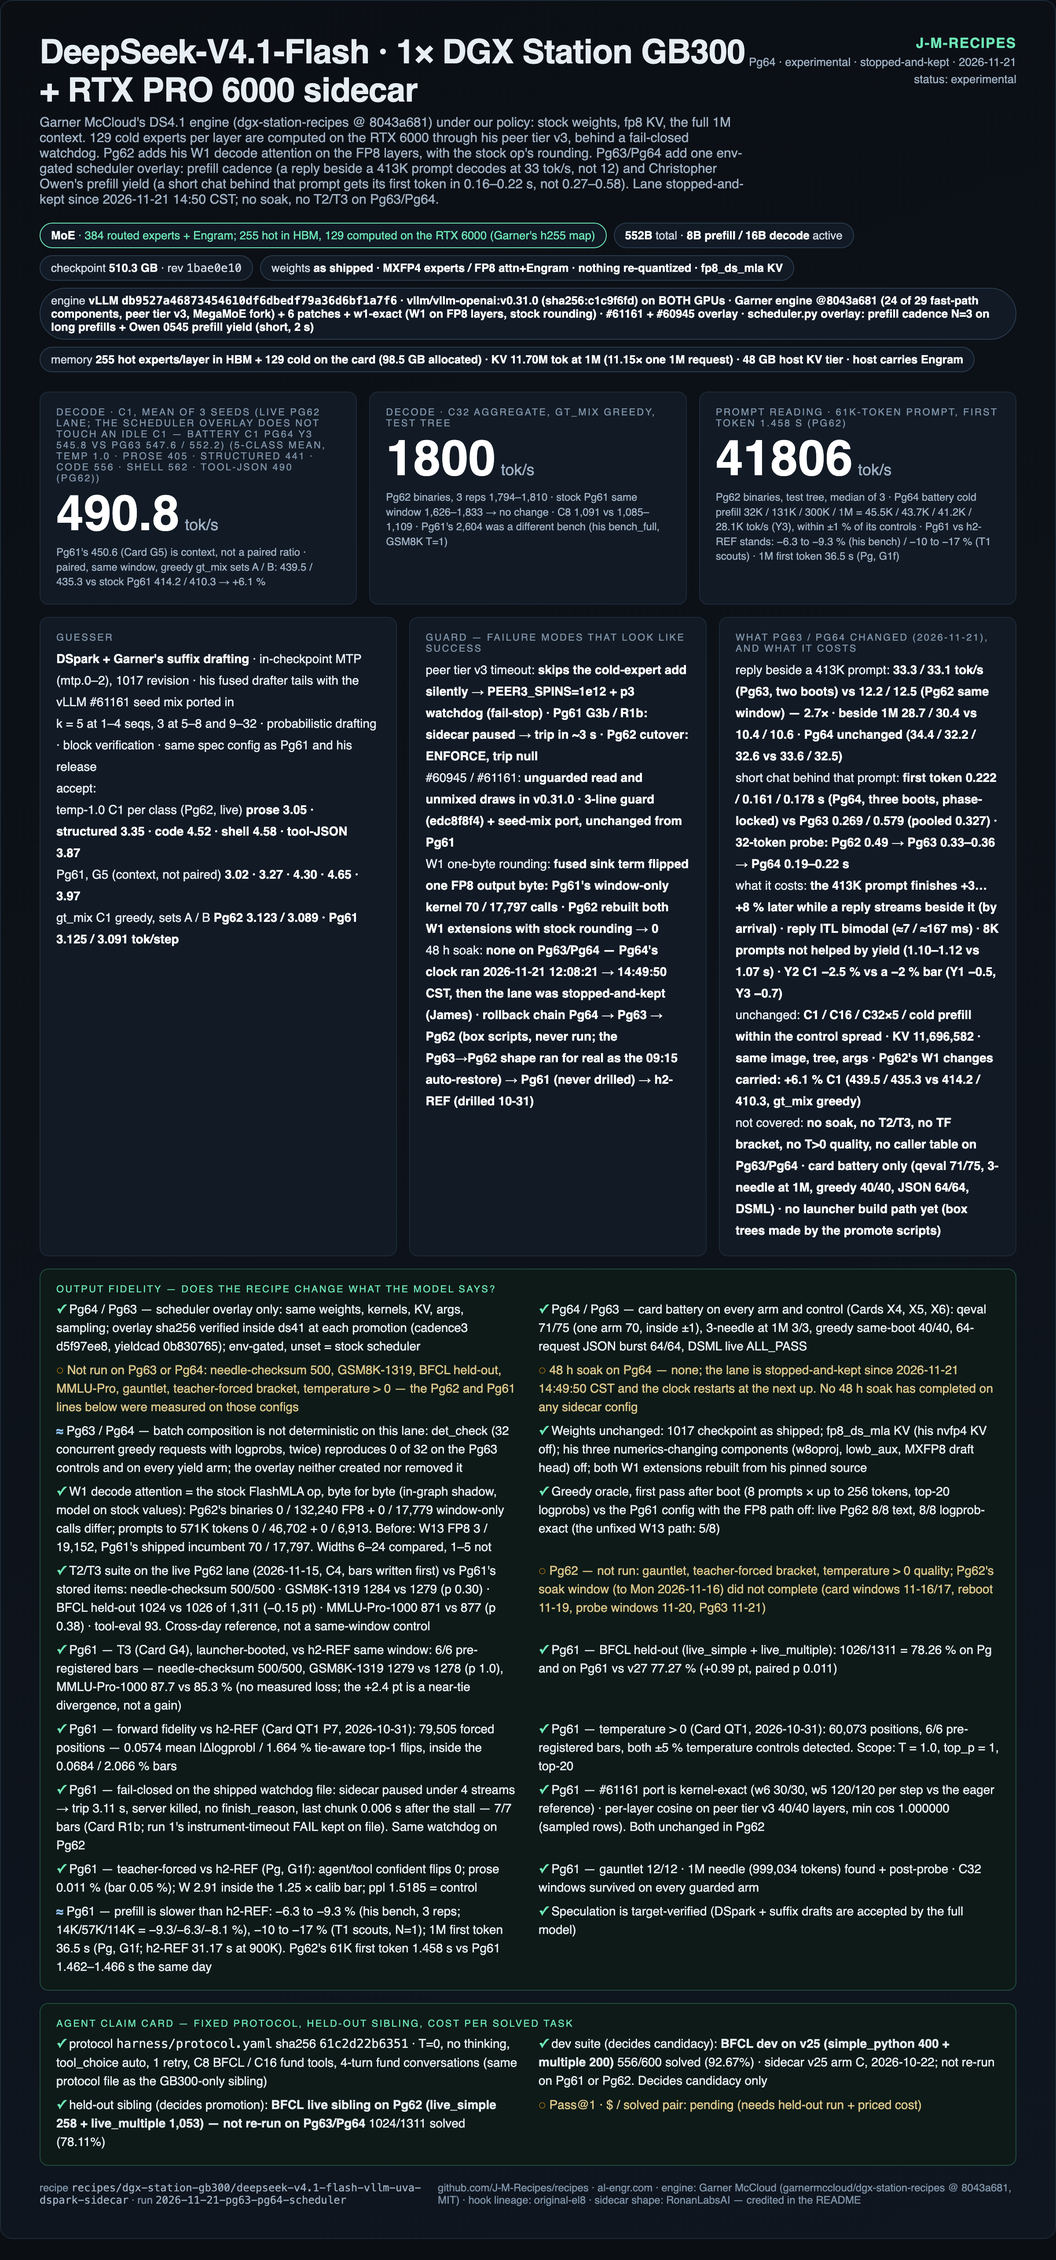
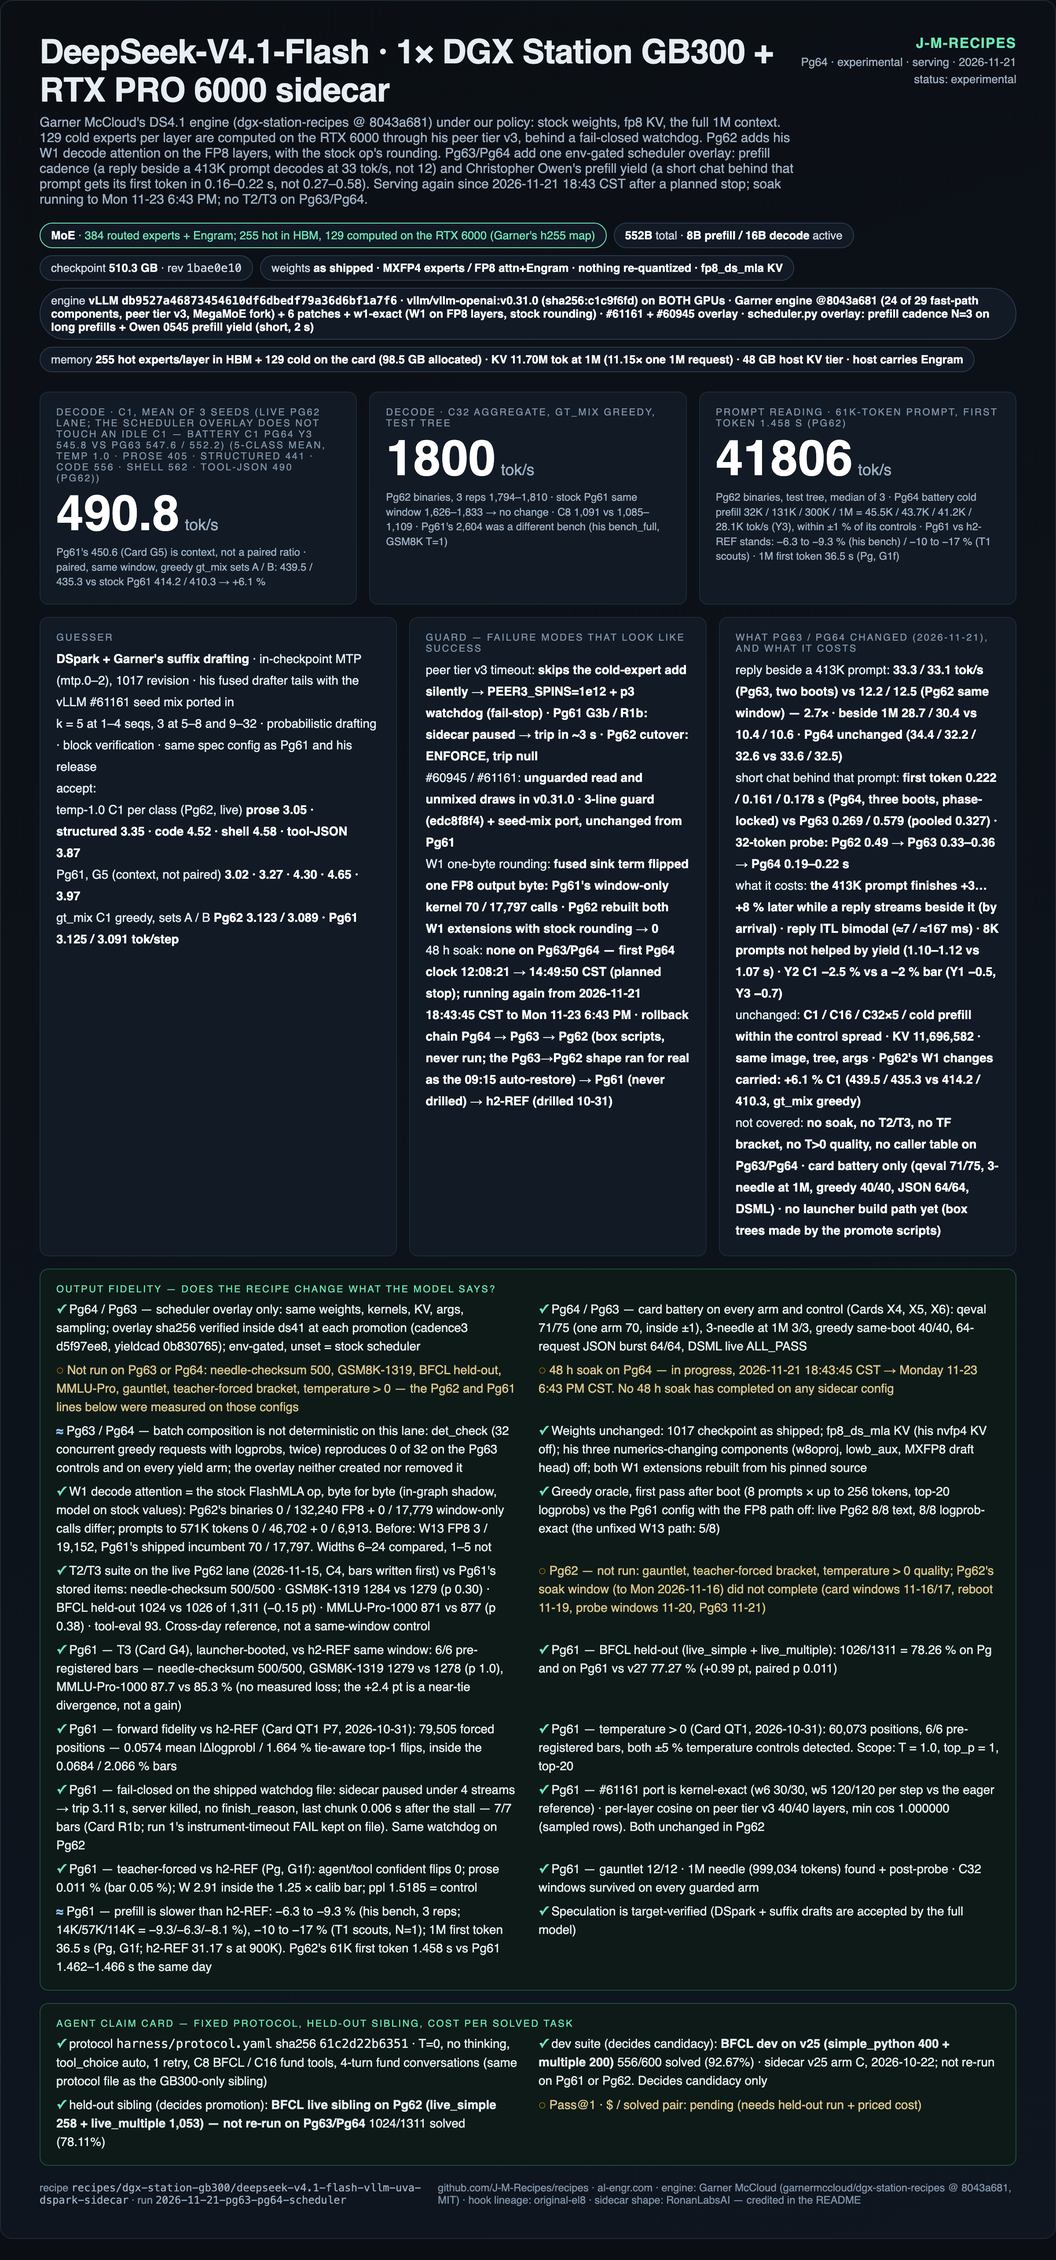
DSV4.1 sidecar Pg64: status refresh — serving again since 2026-11-21 18:43:45 CST after a planned stop, 48 h soak running to Mon 11-23 6:43 PM CST, back on the guest page; card re-rendered; link the Pg64 companion post (Milo, claude-opus-5.5) (#133)

diff --git a/recipes/dgx-station-gb300/deepseek-v4.1-flash-vllm-uva-dspark-sidecar/card.html b/recipes/dgx-station-gb300/deepseek-v4.1-flash-vllm-uva-dspark-sidecar/card.html
@@ -44,9 +44,9 @@
   <div class="top">
     <div>
       <h1>DeepSeek-V4.1-Flash · 1× DGX Station GB300 + RTX PRO 6000 sidecar</h1>
-      <div class="sub">Garner McCloud&#x27;s DS4.1 engine (dgx-station-recipes @ 8043a681) under our policy: stock weights, fp8 KV, the full 1M context. 129 cold experts per layer are computed on the RTX 6000 through his peer tier v3, behind a fail-closed watchdog. Pg62 adds his W1 decode attention on the FP8 layers, with the stock op&#x27;s rounding. Pg63/Pg64 add one env-gated scheduler overlay: prefill cadence (a reply beside a 413K prompt decodes at 33 tok/s, not 12) and Christopher Owen&#x27;s prefill yield (a short chat behind that prompt gets its first token in 0.16–0.22 s, not 0.27–0.58). Lane stopped-and-kept since 2026-11-21 14:50 CST; no soak, no T2/T3 on Pg63/Pg64.</div>
+      <div class="sub">Garner McCloud&#x27;s DS4.1 engine (dgx-station-recipes @ 8043a681) under our policy: stock weights, fp8 KV, the full 1M context. 129 cold experts per layer are computed on the RTX 6000 through his peer tier v3, behind a fail-closed watchdog. Pg62 adds his W1 decode attention on the FP8 layers, with the stock op&#x27;s rounding. Pg63/Pg64 add one env-gated scheduler overlay: prefill cadence (a reply beside a 413K prompt decodes at 33 tok/s, not 12) and Christopher Owen&#x27;s prefill yield (a short chat behind that prompt gets its first token in 0.16–0.22 s, not 0.27–0.58). Serving again since 2026-11-21 18:43 CST after a planned stop; soak running to Mon 11-23 6:43 PM; no T2/T3 on Pg63/Pg64.</div>
     </div>
-    <div class="brand"><b>J-M-RECIPES</b><br>Pg64 · experimental · stopped-and-kept · 2026-11-21<br>status: experimental</div>
+    <div class="brand"><b>J-M-RECIPES</b><br>Pg64 · experimental · serving · 2026-11-21<br>status: experimental</div>
   </div>
   <div class="pills">
 <span class="pill type"><b>MoE</b> · 384 routed experts + Engram; 255 hot in HBM, 129 computed on the RTX 6000 (Garner&#x27;s h255 map)</span>
@@ -63,7 +63,7 @@
   </div>
   <div class="row2">
 <div class="box"><div class="lbl">Guesser</div><div class="kv"><b>DSpark + Garner&#x27;s suffix drafting</b> · in-checkpoint MTP (mtp.0–2), 1017 revision · his fused drafter tails with the vLLM #61161 seed mix ported in<br>k = 5 at 1–4 seqs, 3 at 5–8 and 9–32 · probabilistic drafting · block verification · same spec config as Pg61 and his release<br><span class="acc">accept: <span>temp-1.0 C1 per class (Pg62, live) <b>prose 3.05 · structured 3.35 · code 4.52 · shell 4.58 · tool-JSON 3.87</b></span> <span>Pg61, G5 (context, not paired) <b>3.02 · 3.27 · 4.30 · 4.65 · 3.97</b></span> <span>gt_mix C1 greedy, sets A / B <b>Pg62 3.123 / 3.089 · Pg61 3.125 / 3.091 tok/step</b></span></span></div></div>
-<div class="box"><div class="lbl">Guard — failure modes that look like success</div><div class="kv">peer tier v3 timeout: <b>skips the cold-expert add silently → PEER3_SPINS=1e12 + p3 watchdog (fail-stop) · Pg61 G3b / R1b: sidecar paused → trip in ~3 s · Pg62 cutover: ENFORCE, trip null</b><br>#60945 / #61161: <b>unguarded read and unmixed draws in v0.31.0 · 3-line guard (edc8f8f4) + seed-mix port, unchanged from Pg61</b><br>W1 one-byte rounding: <b>fused sink term flipped one FP8 output byte: Pg61&#x27;s window-only kernel 70 / 17,797 calls · Pg62 rebuilt both W1 extensions with stock rounding → 0</b><br>48 h soak: <b>none on Pg63/Pg64 — Pg64&#x27;s clock ran 2026-11-21 12:08:21 → 14:49:50 CST, then the lane was stopped-and-kept (James) · rollback chain Pg64 → Pg63 → Pg62 (box scripts, never run; the Pg63→Pg62 shape ran for real as the 09:15 auto-restore) → Pg61 (never drilled) → h2-REF (drilled 10-31)</b></div></div>
+<div class="box"><div class="lbl">Guard — failure modes that look like success</div><div class="kv">peer tier v3 timeout: <b>skips the cold-expert add silently → PEER3_SPINS=1e12 + p3 watchdog (fail-stop) · Pg61 G3b / R1b: sidecar paused → trip in ~3 s · Pg62 cutover: ENFORCE, trip null</b><br>#60945 / #61161: <b>unguarded read and unmixed draws in v0.31.0 · 3-line guard (edc8f8f4) + seed-mix port, unchanged from Pg61</b><br>W1 one-byte rounding: <b>fused sink term flipped one FP8 output byte: Pg61&#x27;s window-only kernel 70 / 17,797 calls · Pg62 rebuilt both W1 extensions with stock rounding → 0</b><br>48 h soak: <b>none on Pg63/Pg64 — first Pg64 clock 12:08:21 → 14:49:50 CST (planned stop); running again from 2026-11-21 18:43:45 CST to Mon 11-23 6:43 PM · rollback chain Pg64 → Pg63 → Pg62 (box scripts, never run; the Pg63→Pg62 shape ran for real as the 09:15 auto-restore) → Pg61 (never drilled) → h2-REF (drilled 10-31)</b></div></div>
 <div class="box"><div class="lbl">What Pg63 / Pg64 changed (2026-11-21), and what it costs</div><div class="kv">reply beside a 413K prompt: <b>33.3 / 33.1 tok/s (Pg63, two boots) vs 12.2 / 12.5 (Pg62 same window) — 2.7× · beside 1M 28.7 / 30.4 vs 10.4 / 10.6 · Pg64 unchanged (34.4 / 32.2 / 32.6 vs 33.6 / 32.5)</b><br>short chat behind that prompt: <b>first token 0.222 / 0.161 / 0.178 s (Pg64, three boots, phase-locked) vs Pg63 0.269 / 0.579 (pooled 0.327) · 32-token probe: Pg62 0.49 → Pg63 0.33–0.36 → Pg64 0.19–0.22 s</b><br>what it costs: <b>the 413K prompt finishes +3…+8 % later while a reply streams beside it (by arrival) · reply ITL bimodal (≈7 / ≈167 ms) · 8K prompts not helped by yield (1.10–1.12 vs 1.07 s) · Y2 C1 −2.5 % vs a −2 % bar (Y1 −0.5, Y3 −0.7)</b><br>unchanged: <b>C1 / C16 / C32×5 / cold prefill within the control spread · KV 11,696,582 · same image, tree, args · Pg62&#x27;s W1 changes carried: +6.1 % C1 (439.5 / 435.3 vs 414.2 / 410.3, gt_mix greedy)</b><br>not covered: <b>no soak, no T2/T3, no TF bracket, no T&gt;0 quality, no caller table on Pg63/Pg64 · card battery only (qeval 71/75, 3-needle at 1M, greedy 40/40, JSON 64/64, DSML) · no launcher build path yet (box trees made by the promote scripts)</b></div></div>
   </div>
   <div class="fid"><div class="lbl">Output fidelity — does the recipe change what the model says?</div>
@@ -71,7 +71,7 @@
 <li class="ok">Pg64 / Pg63 — scheduler overlay only: same weights, kernels, KV, args, sampling; overlay sha256 verified inside ds41 at each promotion (cadence3 d5f97ee8, yieldcad 0b830765); env-gated, unset = stock scheduler</li>
 <li class="ok">Pg64 / Pg63 — card battery on every arm and control (Cards X4, X5, X6): qeval 71/75 (one arm 70, inside ±1), 3-needle at 1M 3/3, greedy same-boot 40/40, 64-request JSON burst 64/64, DSML live ALL_PASS</li>
 <li class="pend">Not run on Pg63 or Pg64: needle-checksum 500, GSM8K-1319, BFCL held-out, MMLU-Pro, gauntlet, teacher-forced bracket, temperature &gt; 0 — the Pg62 and Pg61 lines below were measured on those configs</li>
-<li class="pend">48 h soak on Pg64 — none; the lane is stopped-and-kept since 2026-11-21 14:49:50 CST and the clock restarts at the next up. No 48 h soak has completed on any sidecar config</li>
+<li class="pend">48 h soak on Pg64 — in progress, 2026-11-21 18:43:45 CST → Monday 11-23 6:43 PM CST. No 48 h soak has completed on any sidecar config</li>
 <li class="meas">Pg63 / Pg64 — batch composition is not deterministic on this lane: det_check (32 concurrent greedy requests with logprobs, twice) reproduces 0 of 32 on the Pg63 controls and on every yield arm; the overlay neither created nor removed it</li>
 <li class="ok">Weights unchanged: 1017 checkpoint as shipped; fp8_ds_mla KV (his nvfp4 KV off); his three numerics-changing components (w8oproj, lowb_aux, MXFP8 draft head) off; both W1 extensions rebuilt from his pinned source</li>
 <li class="ok">W1 decode attention = the stock FlashMLA op, byte for byte (in-graph shadow, model on stock values): Pg62&#x27;s binaries 0 / 132,240 FP8 + 0 / 17,779 window-only calls differ; prompts to 571K tokens 0 / 46,702 + 0 / 6,913. Before: W13 FP8 3 / 19,152, Pg61&#x27;s shipped incumbent 70 / 17,797. Widths 6–24 compared, 1–5 not</li>

diff --git a/recipes/dgx-station-gb300/deepseek-v4.1-flash-vllm-uva-dspark-sidecar/README.md b/recipes/dgx-station-gb300/deepseek-v4.1-flash-vllm-uva-dspark-sidecar/README.md
@@ -9,10 +9,10 @@ other road: it reads cold experts from Grace memory, which puts a serial read on
 
 ![Pg64 card: DeepSeek-V4.1-Flash on one DGX Station GB300 + RTX PRO 6000 sidecar](card.png)
 
-- **Pg64 is the current config; lane stopped-and-kept since 2026-11-21 14:50 CST (James), restore =**
-  `WORK=~/dsv41/garner/pg64-work MODEL_DIR=… DS41_HOME=~/dsv41/garner/home bash scripts/launch-pg61.sh up` on the box
-  (the ledger line: `promote/lane-owner-20261121.txt` in the bundle, 14:49:50 CST; GPU freed, `garner/pg64-work` intact).
-  Pg64 served `:30006` from **2026-11-21 12:08:42 CST** to 14:49:50. Pg64 = Pg63 + prefill yield; Pg63 = Pg62 + prefill
+- **Pg64 is the current config and is serving `:30006` again since 2026-11-21 18:43:45 CST** (restored on James's word after a planned
+  stop 14:49:50–18:43:45 CST while the Station ran other measurement cards; restore = `WORK=~/dsv41/garner/pg64-work MODEL_DIR=… DS41_HOME=~/dsv41/garner/home
+  bash scripts/launch-pg61.sh up`, cadence + yield env and the cadence engine-log line verified, p3 watchdog ENFORCE). First served
+  **2026-11-21 12:08:42 CST**. The lane is back on the Funland Lab guest page (`deepseek-v4.1-flash`) since 2026-11-21 20:41 CST. Pg64 = Pg63 + prefill yield; Pg63 = Pg62 + prefill
   cadence; both are one env-gated scheduler overlay on Pg62 and nothing else ([what changed](#pg63--pg64-2026-11-21-replies-during-a-long-prompt)).
 - **Status:** `experimental`. The round's evidence is pre-registered bars on two boots per lever against same-window
   controls ([bundle](results/2026-11-21-pg63-pg64-scheduler/README.md)): beside a 413K-token prompt a streaming reply decodes
@@ -20,8 +20,7 @@ other road: it reads cold experts from Grace memory, which puts a serial read on
   0.27–0.58 s. **No 48 h soak has completed on Pg63 or Pg64, and no T2/T3 quality suite has run on either**; the fidelity
   evidence is the card battery (qeval 71/75, 3-needle at 1M, greedy same-boot 40/40, JSON burst, DSML live) on every arm.
   Pg62's T2/T3 pass (2026-11-15) is Pg62's.
-- **Soak:** none in progress. Pg64's clock started 12:08:21 CST and stopped with the lane at 14:49:50 (2 h 41 min). It
-  restarts at the next `up`.
+- **Soak:** in progress — the 48 h soak clock restarted 2026-11-21 18:43:45 CST and runs to Monday 2026-11-23 6:43 PM CST if nothing restarts it. (The first clock ran 12:08:21 → 14:49:50, 2 h 41 min, and stopped with the lane.)
 - **Rollback:** Pg64 → Pg63 `bash scripts/rollback-pg64-to-pg63.sh`, Pg63 → Pg62 `bash scripts/rollback-pg63-to-pg62.sh`
   (box scripts, in the bundle's `promote/`; neither has been run). Pg62 → Pg61 `scripts/rollback-pg62-to-pg61.sh` (never
   drilled); Pg61 → h2-REF `scripts/rollback-pg61-to-h2ref.sh` (drilled 2026-10-31). What did run for real on 2026-11-21: the
@@ -31,7 +30,8 @@ other road: it reads cold experts from Grace memory, which puts a serial read on
   [`results/2026-11-15-pg62-t2-t3/`](results/2026-11-15-pg62-t2-t3/README.md). Pg61's:
   [`results/2026-10-29-pg61-garner-engine/`](results/2026-10-29-pg61-garner-engine/README.md),
   [`results/2026-10-31-r1-qt1/`](results/2026-10-31-r1-qt1/README.md). Cards: `card-pg62.png`, `card-pg61.png`.
-- **Related:** [why we did not port Owen's spark-ds41f engine to the GB300, and what we tried instead](https://al-engr.com/gb300-why-not-port-spark-ds41f.html)
+- **Related:** [the Pg64 write-up: keeping replies flowing while a giant prompt is read](https://al-engr.com/gb300-pg64-replies-during-long-prompts.html) (companion post, 2026-11-21);
+  [why we did not port Owen's spark-ds41f engine to the GB300, and what we tried instead](https://al-engr.com/gb300-why-not-port-spark-ds41f.html)
   (the post this round came out of); blogs
   [GB300 + sidecar vs 4× RTX PRO 6000 (BRRR)](https://al-engr.com/gb300-vs-4x-rtx6000-dsv41-flash-brrr.html),
   [Adaptive Residency Part 3, the seed map](https://al-engr.com/gb300-adaptive-residency-seed-map.html) and
@@ -203,7 +203,7 @@ is the one that needs nothing but the GB300.
 
 ## What this runs
 
-**Pg64 (the current config; served 2026-11-21 12:08:42 → 14:49:50 CST, then stopped-and-kept)**: Pg62 plus one
+**Pg64 (the current config; serving since 2026-11-21 12:08:42 CST, with a planned stop 14:49:50 → 18:43:45)**: Pg62 plus one
 env-gated scheduler overlay carrying prefill cadence (Pg63, [`patches/cadence3.diff`](results/2026-11-21-pg63-pg64-scheduler/patches/cadence3.diff))
 and Christopher Owen's prefill yield (Pg64, [`patches/yieldcad.diff`](results/2026-11-21-pg63-pg64-scheduler/patches/yieldcad.diff)),
 with `VLLM_PREFILL_CADENCE=3 VLLM_PREFILL_CADENCE_MIN_REMAINING=8192 VLLM_PREFILL_YIELD=short VLLM_PREFILL_YIELD_LIMIT_S=2` in the
@@ -568,7 +568,7 @@ must end `ALL GATES PASS`.
 
 ## Results
 
-### Pg63 + Pg64 = the current config (promoted 2026-11-21 09:31:08 and 12:08:42 CST; lane stopped-and-kept 14:49:50) — [`results/2026-11-21-pg63-pg64-scheduler/`](results/2026-11-21-pg63-pg64-scheduler/README.md)
+### Pg63 + Pg64 = the current config (promoted 2026-11-21 09:31:08 and 12:08:42 CST; serving again since 18:43:45 after a planned stop) — [`results/2026-11-21-pg63-pg64-scheduler/`](results/2026-11-21-pg63-pg64-scheduler/README.md)
 
 Promotion logs ([`promote-pg63-20261121-0923.log`](results/2026-11-21-pg63-pg64-scheduler/promote/promote-pg63-20261121-0923.log),
 [`promote-pg64-20261121-1201.log`](results/2026-11-21-pg63-pg64-scheduler/promote/promote-pg64-20261121-1201.log)): `pg6N-work ready:
@@ -592,7 +592,7 @@ under `pipefail` (SIGPIPE) and auto-restored Pg62 by 09:22:24 ([log](results/202
 ### Pg62 (promoted 2026-11-14 23:11:55 CST; served to 2026-11-21 09:24 CST; the second rollback) — [`results/2026-11-14-pg62-w1-exact/`](results/2026-11-14-pg62-w1-exact/README.md)
 
 *(Corrected 2026-11-21: this heading said "Pg62 = the serving config … soak in progress". Pg63 took the lane 2026-11-21 09:31:08 CST
-and Pg64 at 12:08:42; the lane is stopped-and-kept since 14:49:50.)*
+and Pg64 at 12:08:42; serving again since 18:43:45 after a planned stop 14:49:50–18:43:45.)*
 
 Cutover log ([`cutover-pg62-20261114-2305.log`](results/2026-11-14-pg62-w1-exact/raw/promote/live/cutover-pg62-20261114-2305.log)):
 gate `GATE PASS -> cutover` 23:05:13 → KV 11,696,582 → `verify OK` 23:11:36 → watchdog ENFORCE armed 23:11:39 →
@@ -667,7 +667,7 @@ pre-registrations for G0–G5, raw receipts per card (per-class rows withheld), 
 
 | release | served on `:30006` | bundle | result |
 |---|---|---|---|
-| **Pg64** | 2026-11-21 12:08:42 → 14:49:50 CST (stopped-and-kept by James; current config) | [`2026-11-21-pg63-pg64-scheduler`](results/2026-11-21-pg63-pg64-scheduler/README.md) | Pg63 + Owen's prefill yield (limit 2 s): short chat behind a 413K prompt first token 0.16–0.22 s vs 0.27–0.58 s (P1, three boots, 0.49–0.68× pooled control); 8K prompts not helped; Y2 C1 −2.5 % (bar −2 %), Y1/Y3 pass |
+| **Pg64** | since 2026-11-21 12:08:42 CST (current config; planned stop 14:49:50 → 18:43:45) | [`2026-11-21-pg63-pg64-scheduler`](results/2026-11-21-pg63-pg64-scheduler/README.md) | Pg63 + Owen's prefill yield (limit 2 s): short chat behind a 413K prompt first token 0.16–0.22 s vs 0.27–0.58 s (P1, three boots, 0.49–0.68× pooled control); 8K prompts not helped; Y2 C1 −2.5 % (bar −2 %), Y1/Y3 pass |
 | **Pg63** (first rollback) | 2026-11-21 09:31:08 → 12:02 CST | [`2026-11-21-pg63-pg64-scheduler`](results/2026-11-21-pg63-pg64-scheduler/README.md) | Pg62 + prefill cadence N=3 on long prefills: reply beside 413K 33 vs 12–13 tok/s, beside 1M 29–30 vs 10–11; long prompt +3…+8 % while shared; C32×5 −0.6 / −0.04 % |
 | Pg62 (second rollback) | 2026-11-14 23:11:55 CST → 2026-11-21 09:24 CST (minus the card windows of 11-16/17, 11-20 and 11-21 listed in the bundles) | [`2026-11-14-pg62-w1-exact`](results/2026-11-14-pg62-w1-exact/README.md) | +6.1 % C1 decode vs Pg61 same window (gt_mix, greedy); each W1 decode-attention call byte-equal to the stock op in shadow; oracle 8/8 |
 | Pg61 (third rollback) | 2026-10-29 10:14pm CDT → before the 2026-11-14 round (stop time not in this round's receipts) | [`2026-10-29-pg61-garner-engine`](results/2026-10-29-pg61-garner-engine/README.md) | 1.31× h2-REF per-class C1 at T = 1; T3 all six bars PASS; prefill −8 to −17 % |
@@ -691,10 +691,10 @@ The long write-up for each release is in [HISTORY.md → Superseded Results subs
 
 ## Known limits
 
-**Pg64 (the current config since 2026-11-21 12:08:42 CST; lane stopped-and-kept since 14:49:50).** Every Pg62 and Pg61 limit below
+**Pg64 (the current config since 2026-11-21 12:08:42 CST; serving again since 18:43:45 after a planned stop).** Every Pg62 and Pg61 limit below
 also applies to Pg63 and Pg64. The scheduler round adds:
 
-* **Still being tested, and less tested than Pg62.** No 48 h soak has run on Pg63 or Pg64 (Pg64's clock ran 12:08:21 → 14:49:50, 2 h 41 min).
+* **Still being tested, and less tested than Pg62.** No 48 h soak has completed on Pg63 or Pg64 (the first Pg64 clock ran 12:08:21 → 14:49:50, 2 h 41 min; the 48 h soak clock restarted 2026-11-21 18:43:45 CST and runs to Monday 2026-11-23 6:43 PM CST if nothing restarts it).
   **No T2/T3 quality suite on Pg63 or Pg64** — no needle-checksum 500, GSM8K, BFCL, MMLU-Pro, gauntlet, teacher-forced bracket or
   temperature > 0 instrument. The fidelity evidence is the card battery on each arm (qeval 71/75 — D1 read 70 — 3-needle at 1M 3/3, greedy
   same-boot 40/40, 64-request JSON burst 64/64, DSML live). Pg62's 2026-11-15 T2/T3 pass is Pg62's.
@@ -848,7 +848,7 @@ also applies to Pg63 and Pg64. The scheduler round adds:
 * **No 48 h soak has completed on any sidecar config.** The 2026-10-22 window was cut at ~25 h, and James cancelled
   the v25m window on 2026-10-24. Pg61's soak is running. *(Corrected 2026-11-15: no receipt shows Pg61's last window
   completing; Pg62's soak runs to Monday 2026-11-16 11:11 PM CST.)* *(Corrected 2026-11-21: Pg62's window did not complete either;
-  Pg63/Pg64 have had no soak; the lane is stopped-and-kept since 2026-11-21 14:49:50 CST.)*
+  Pg63/Pg64 have had no completed soak; the 48 h soak clock restarted 2026-11-21 18:43:45 CST and runs to Monday 2026-11-23 6:43 PM CST if nothing restarts it.)*
 * **A silent sidecar timeout is wrong output.** Infinite-spin + watchdog, or do not serve. Do not run the lane
   in `--mode report` and call it production.
 * **The power cap binds in prefill**, on the GB300-only incumbent too. Every number here was measured under that
@@ -1109,7 +1109,7 @@ What stands between **Pg64** and `status: verified` (2026-11-21):
 
 | item | state |
 |---|---|
-| 48 h soak on Pg64 | **pending** — none run; the lane is stopped-and-kept since 2026-11-21 14:49:50 CST and the clock restarts at the next `up` |
+| 48 h soak on Pg64 | **in progress** — the 48 h soak clock restarted 2026-11-21 18:43:45 CST and runs to Monday 2026-11-23 6:43 PM CST if nothing restarts it |
 | T2 (needle-checksum, GSM8K paired) + held-out BFCL on Pg64 | **pending** — not run on Pg63 or Pg64 |
 | T3 promotion bench on Pg64 | **pending** — not run; the round's bars were the card battery + traces + C32×5 ([bundle](results/2026-11-21-pg63-pg64-scheduler/README.md)) |
 | temperature > 0 quality on Pg64 | **pending** |
